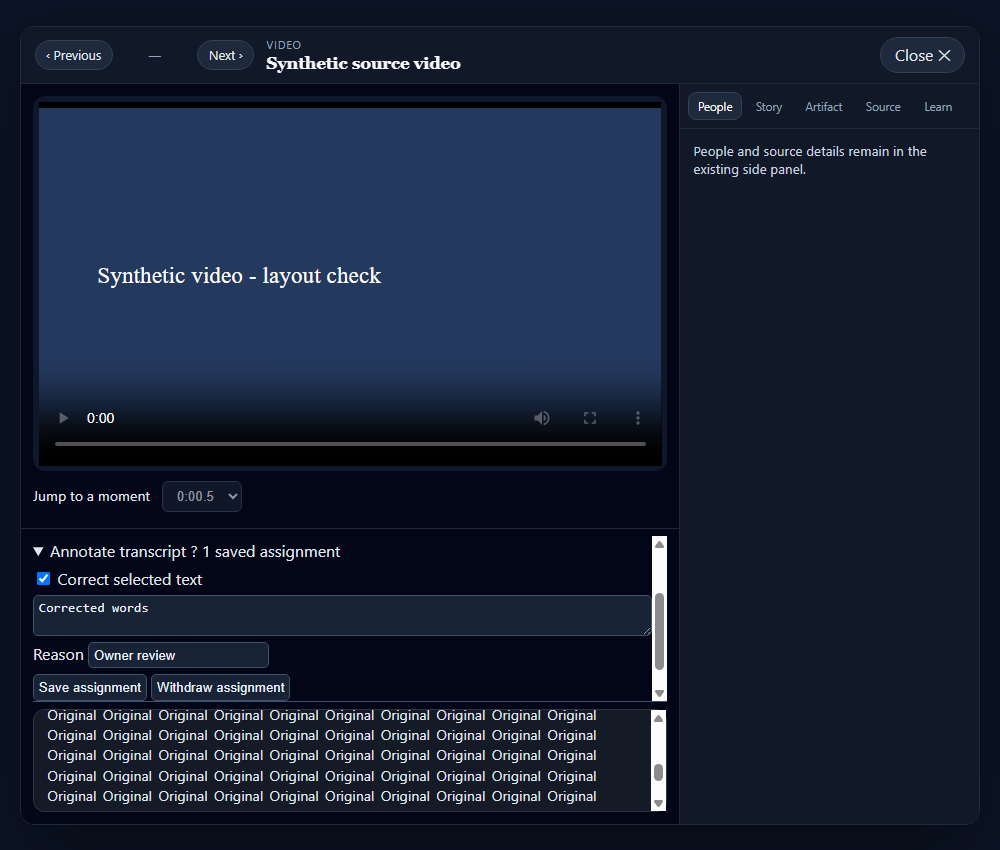
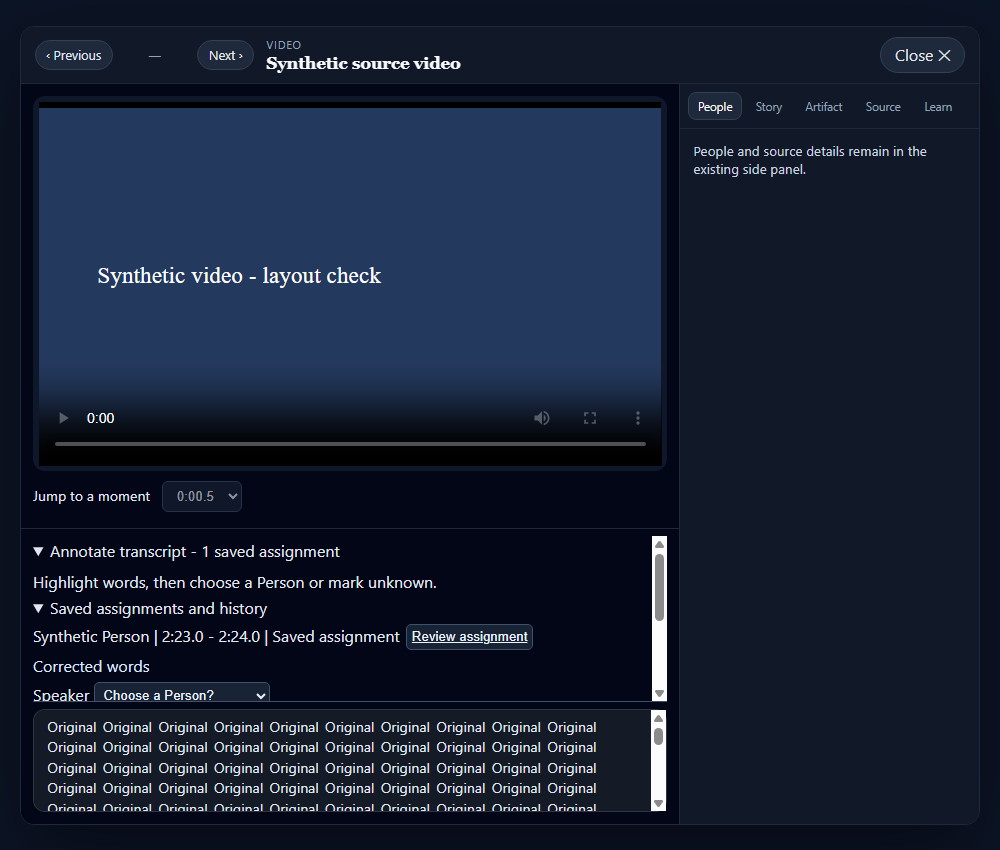
Make saved transcript assignments visible and reviewable

Changed region(s): [[0.031, 0.6424, 0.682, 0.9788], [0.651, 0.8565, 0.682, 0.9176]]

diff --git a/memorybox/explore/static/explore.js b/memorybox/explore/static/explore.js
@@ -5765,13 +5765,14 @@
     tools.className = "mb-transcript-annotations";
     tools.innerHTML = `<summary>Annotate transcript</summary>
       <p data-annotation-status role="status">Highlight words, then choose a Person or mark unknown.</p>
+      <details open data-annotation-list><summary>Saved assignments and history</summary><div data-annotation-history></div></details>
       <label>Speaker <select data-annotation-person><option value="">Choose a Person?</option><option value="unknown">Unknown speaker</option><option value="no_match">No matching MB Person</option></select></label>
       <label><input type="checkbox" data-correct-text> Correct selected text</label>
       <textarea data-annotation-text aria-label="Corrected text" rows="2" maxlength="8000" disabled></textarea>
       <label>Reason <input data-annotation-reason maxlength="1000" value="Owner review"></label>
       <button type="button" data-annotation-save disabled>Save assignment</button>
       <button type="button" data-annotation-withdraw disabled>Withdraw assignment</button>
-      <details><summary>Annotation history</summary><div data-annotation-history></div></details>`;
+      `;
     box.before(tools);
     const find = s => tools.querySelector(s), status = find("[data-annotation-status]");
     const person = find("[data-annotation-person]"), text = find("[data-annotation-text]"), corrected = find("[data-correct-text]");
@@ -5783,7 +5784,7 @@
     const history = data.history || [];
     const superseded = new Set(history.map(a => a.supersedes).filter(Boolean));
     const active = history.filter(a => !a.stale && a.action === "assign" && !superseded.has(a.id));
-    if (active.length) tools.querySelector("summary").textContent = "Annotate transcript ? " + active.length + (active.length === 1 ? " saved assignment" : " saved assignments");
+    if (active.length) tools.querySelector("summary").textContent = "Annotate transcript - " + active.length + (active.length === 1 ? " saved assignment" : " saved assignments");
     const setSelection = ids => {
       selected = ids; retry = null;
       prior = active.find(a => JSON.stringify(a.word_ids) === JSON.stringify(ids)) || null;
@@ -5792,15 +5793,38 @@
       else { person.value = ""; corrected.checked = false; }
       text.disabled = !corrected.checked;
       text.value = prior && prior.correction !== null ? prior.correction : data.words.filter(w => ids.includes(w.id)).map(w => w.machine_token).join(" ");
+      box.querySelectorAll('.mb-ev-word').forEach(el => {
+        el.classList.toggle('is-annotation-selected', ids.includes(data.words[Number(el.dataset.i)]?.id));
+      });
       status.textContent = selected.length + " words selected" + (prior ? "; revising saved assignment." : ".");
     };
     const historyBox = find("[data-annotation-history]");
-    history.forEach(a => {
+    if (!history.length) historyBox.textContent = "No saved assignments yet.";
+    const timeLabel = value => {
+      const seconds = Math.max(0, Number(value) || 0);
+      return Math.floor(seconds / 60) + ":" + (seconds % 60).toFixed(1).padStart(4, "0");
+    };
+    [...active, ...history.filter(a => !active.includes(a))].forEach(a => {
       const row = document.createElement("p");
       row.dataset.historyPerson = a.person_id || "";
-      row.textContent = `${a.created_at} ? ${a.action} ? ${a.person_id || a.speaker_state} ? ${a.reason}${a.stale ? " ? Earlier transcript version" : ""}`;
-      if (a.correction !== null) row.appendChild(document.createTextNode(" ? Text: " + a.correction));
-      if (active.includes(a)) { const edit = document.createElement("button"); edit.type = "button"; edit.textContent = "Review assignment"; edit.onclick = () => setSelection(a.word_ids); row.appendChild(edit); }
+      const label = a.person_id || (a.speaker_state === "no_match" ? "No matching MB Person" : "Unknown speaker");
+      const stateLabel = active.includes(a) ? "Saved assignment" : a.action === "withdraw" ? "Withdrawn" : "Earlier assignment";
+      row.textContent = `${label} | ${timeLabel(a.t_start)} - ${timeLabel(a.t_end)} | ${stateLabel}`;
+      const excerpt = document.createElement("span");
+      excerpt.className = "mb-annotation-excerpt";
+      const original = a.stale ? "Earlier transcript version" : data.words.filter(w => a.word_ids.includes(w.id)).map(w => w.machine_token).join(" ");
+      const displayed = a.correction !== null ? a.correction : original;
+      excerpt.textContent = displayed.length > 240 ? displayed.slice(0, 240) + "..." : displayed;
+      row.appendChild(excerpt);
+      row.title = `${a.created_at} | ${a.reason}`;
+      if (active.includes(a)) { const edit = document.createElement("button"); edit.type = "button"; edit.textContent = "Review assignment"; edit.onclick = () => {
+        if (busy) return;
+        setSelection(a.word_ids);
+        const first = box.querySelector('.is-annotation-selected');
+        if (first) box.scrollTop += first.getBoundingClientRect().top - box.getBoundingClientRect().top - 8;
+        find('[data-annotation-list]').open = false;
+        tools.scrollTop = 0;
+      }; row.insertBefore(edit, excerpt); }
       historyBox.appendChild(row);
     });
     const pick = (event) => {

diff --git a/memorybox/explore/static/explore.css b/memorybox/explore/static/explore.css
@@ -2323,3 +2323,12 @@ html[data-mb-surface="explore"] .mb-explore.is-present-locked .mb-explore-timeli
 
 .mb-viewer-footer > .mb-transcript-annotations[open] { flex: 0 0 60%; }
 .mb-viewer.is-video .mb-viewer-footer .mb-ev-transcript { flex-basis: 0; }
+
+.mb-annotation-excerpt { display: block; margin: .3rem 0; color: #dce8ff; }
+.mb-transcript-annotations button { cursor: pointer; text-decoration: underline; }
+.mb-transcript-annotations button:disabled { cursor: default; }
+.mb-ev-word.is-annotation-selected { background: #264d82; outline: 1px solid #9bc4ff; }
+
+.mb-transcript-annotations [data-annotation-status],
+.mb-transcript-annotations [data-annotation-history] p { margin: .35rem 0; }
+.mb-transcript-annotations [data-annotation-history] button { margin-left: .4rem; }

diff --git a/tests/browser_i13_annotations.py b/tests/browser_i13_annotations.py
@@ -61,7 +61,7 @@ async def run(endpoint):
    if(url.startsWith('/speech/transcript?')) {window.reads++;return {ok:true,json:async()=>dataForTest()};}
    window.annotationCalls.push({url,options});
    if(window.failSave)return {ok:false,json:async()=>({detail:'Synthetic save rejected'})};
-   const a={...JSON.parse(options.body),id:'annotation-'+annotationCalls.length,created_at:'synthetic',stale:false};
+   const a={...JSON.parse(options.body),id:'annotation-'+annotationCalls.length,t_start:143,t_end:144,created_at:'synthetic',stale:false};
    historyRows.push(a);return {ok:true,json:async()=>({ok:true,annotation:a})};
  };
  if(!crypto.randomUUID)crypto.randomUUID=()=> '00000000-0000-0000-0000-000000000099';
@@ -118,10 +118,13 @@ async def run(endpoint):
  // Reopen through the actual transcript fetch/render path.
  bindSpeechTranscript(testItem);await wait();tools=document.querySelector('.mb-transcript-annotations');
  const reopenedHistory=tools.querySelector('summary').textContent.includes('1 saved assignment')&&tools.querySelector('[data-annotation-history]').textContent.includes('assign');
+ const savedList=tools.querySelector('[data-annotation-history]');
+ const visibleAssignmentDetails=tools.querySelector('[data-annotation-list]').open && savedList.textContent.includes('Synthetic Person') && savedList.textContent.includes('2:23.0') && savedList.textContent.includes('Corrected words');
  box.scrollTop=box.scrollHeight;
  const header=tools.querySelector('summary'),hr=header.getBoundingClientRect();
  const headingVisibleAtTranscriptBottom=document.elementFromPoint(hr.left+5,hr.top+5)===header;
  tools.open=true;tools.querySelector('[data-annotation-history] button').click();await wait();
+ const reviewRestoresExactWords=box.querySelectorAll('.is-annotation-selected').length===2 && tools.querySelector('[data-annotation-person]').value.endsWith('0001') && tools.querySelector('textarea').value==='Corrected words';
  window.failSave=true;tools.querySelector('[data-annotation-save]').click();await wait();
  const errorVisible=tools.querySelector('[data-annotation-status]').textContent==='Synthetic save rejected';
  const rejectedSaveRetainsPerson=tools.querySelector('[data-annotation-person]').value.endsWith('0001');
@@ -131,17 +134,19 @@ async def run(endpoint):
  const br=save.getBoundingClientRect();
  const saveReachable=document.elementFromPoint(br.left+3,br.top+3)===save;
  document.body.dispatchEvent(new KeyboardEvent('keydown',{key:'ArrowRight',bubbles:true}));
- return {emptyRejected,personRetained,editingDoesNotNavigate,confirmationPersists,assignmentRetained,savedHistory,openAfterSave,reopenedHistory,headingVisibleAtTranscriptBottom,errorVisible,rejectedSaveRetainsPerson,transcriptFits,saveReachable,
+ return {emptyRejected,personRetained,editingDoesNotNavigate,confirmationPersists,assignmentRetained,savedHistory,openAfterSave,reopenedHistory,visibleAssignmentDetails,reviewRestoresExactWords,headingVisibleAtTranscriptBottom,errorVisible,rejectedSaveRetainsPerson,transcriptFits,saveReachable,
  selectedExactWords:payload?.word_ids.length===2,correction:payload?.correction==='Corrected words',
  annotationOnly:annotationCalls.every(r=>r.url==='/annotations/transcript'),ownerHeader:request?.options.headers['X-MB-Annotation']==='1',viewerNavigationStillWorks:navigated===1};
 })()""","awaitPromise":True,"returnByValue":True})
         if "exceptionDetails" in r:raise RuntimeError(r["exceptionDetails"])
         checks=r['result']['value']
         proof={'kind':'actual_annotation_form_and_selection_synthetic_browser','checks':checks,'passed':all(checks.values()),'limits':['Synthetic API responses; persistence tested separately on disposable PostgreSQL','No runtime services or family media']}
-        shot=await call('Page.captureScreenshot',{'format':'png'})
+        await call('Runtime.evaluate',{'expression':"(async()=>{bindSpeechTranscript(testItem);await new Promise(r=>setTimeout(r,80));document.querySelector('.mb-transcript-annotations').open=true;})()",'awaitPromise':True})
+        shot=await call('Page.captureScreenshot' ,{'format':'png'})
         (OUT/'browser-annotation-proof.png').write_bytes(base64.b64decode(shot['data']))
         (OUT/'browser-annotation-proof.json').write_text(json.dumps(proof,indent=2)+'\n',encoding='utf-8')
         print(json.dumps(proof,indent=2))
+        await ws.send(json.dumps({'id':seq+1,'method':'Browser.close'}))
         if not proof['passed']:raise RuntimeError('Annotation browser proof failed')
 
 def main():
@@ -160,6 +165,8 @@ def main():
             endpoint=next(t['webSocketDebuggerUrl'] for t in tabs if t['type']=='page')
             asyncio.run(run(endpoint))
         finally:
-            proc.terminate();proc.wait(timeout=10)
+            try: proc.wait(timeout=10)
+            except subprocess.TimeoutExpired:
+                proc.terminate();proc.wait(timeout=10)
 
 if __name__=='__main__':main()

diff --git a/docs/implementation/p2-i13-stage-a/ANNOTATION-IMPLEMENTATION-REPORT.md b/docs/implementation/p2-i13-stage-a/ANNOTATION-IMPLEMENTATION-REPORT.md
@@ -68,3 +68,9 @@ The correction places annotation controls above the independently scrolling tran
 Validation: 18 synthetic Chromium interaction checks pass using the actual transcript fetch/render and annotation handlers with mocked read/write responses. Coverage includes save/reopen, error retention, selected word IDs, form-key isolation, continued viewer navigation, reachable Save, and the heading remaining visible at the transcript bottom. Eight modal layout cases pass; 33 Stage A tests and three annotation contract tests pass (12 opt-in database tests skipped). JavaScript syntax passes. Synthetic browser screenshots were inspected; live save/persistence and correction acceptance still require Tom's FlightSim check. No runtime queries, migrations or processing ran during this repair.
 
 Deploy as a fresh detached checkout of the correction commit using the existing start-fragment-release.ps1 -ExpectedSha helper. Migration 031 is already applied: do not repeat it or use the old preflight requiring pending 031. Close existing services normally, start the correction with -Start, refresh the browser, and verify a Person assignment, correction, saved confirmation and reopened history. Keep Learn untouched and processing locked.
+
+## Saved assignment review follow-up
+
+Tom reports a saved assignment count survives reopening and correction keys work, but the count only toggles the form and does not identify the Person or selected text. Add visible saved-assignment entries with speaker, source time range, text excerpt and an explicit Review assignment button. Review must populate the form and visibly mark the exact saved words without changing playback or writing data. Live evidence confirms the count, not yet the full reviewed annotation contents.
+
+Implemented visible history on form expansion, speaker/time/text entries and explicit Review buttons. Review restores fields, highlights exact words, scrolls only the transcript and collapses history to expose the editor. Twenty synthetic Chromium interaction checks and JavaScript syntax pass; the rendered saved-entry screenshot was reviewed. Database writes and schema are unchanged. One browser cleanup timeout was resolved by graceful browser shutdown; its untracked temporary profile remains excluded from the commit. FlightSim review of the saved Person/span remains pending.
